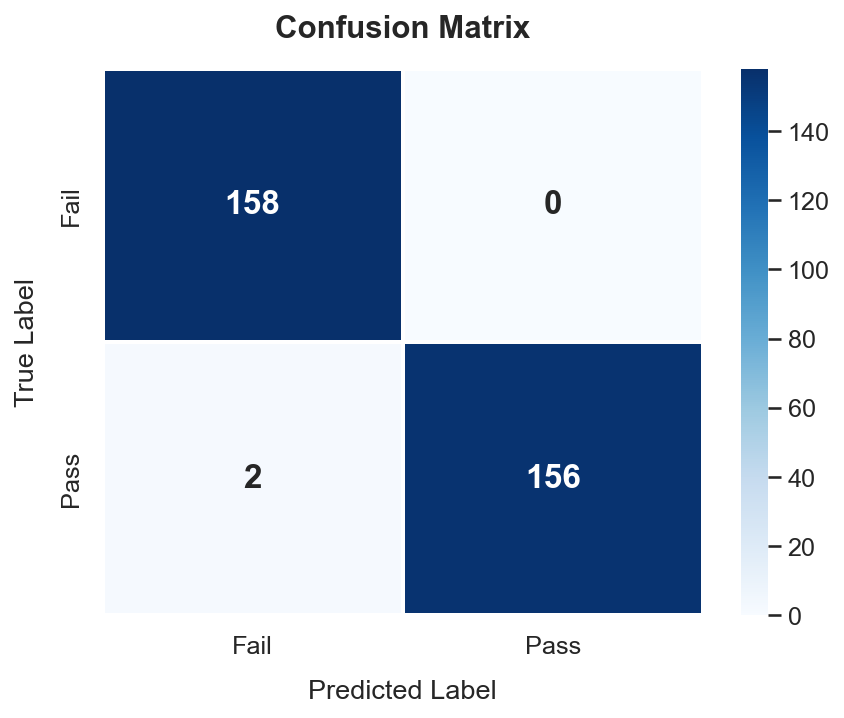
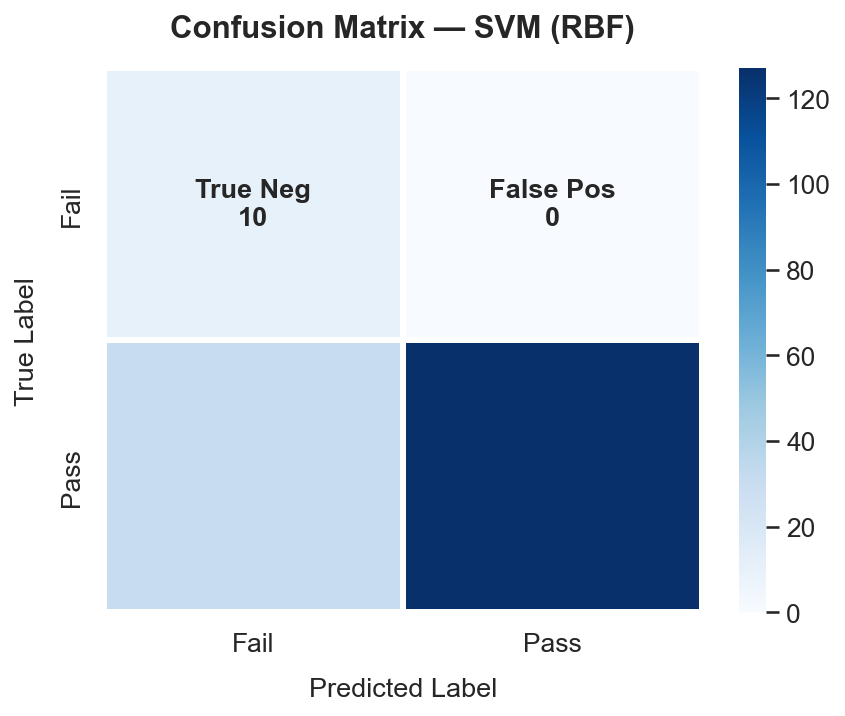
prediction using svm

diff --git a/svm.py b/svm.py
@@ -1,0 +1,316 @@
+import pandas as pd
+import numpy as np
+import matplotlib.pyplot as plt
+import matplotlib.gridspec as gridspec
+import seaborn as sns
+from sklearn.svm import SVC
+from sklearn.preprocessing import StandardScaler
+from sklearn.metrics import (
+    accuracy_score, confusion_matrix, classification_report,
+    roc_curve, auc, precision_recall_curve
+)
+import warnings
+warnings.filterwarnings('ignore')
+
+# ══════════════════════════════════════════════════════════════
+#  CONFIGURATION
+# ══════════════════════════════════════════════════════════════
+TRAIN_PATH = "training_data.xlsx"
+TEST_PATH  = "testing_data.xlsx"
+
+# ✅ exam_score EXCLUDED — Fail: 18–29.9 | Pass: 30.2–100
+# Using it lets the model cheat to 100% by learning one threshold.
+FEATURES = [
+    'study_hours_per_day',
+    'social_media_hours',
+    'attendance_percentage',
+    'sleep_hours',
+    'extracurricular_participation',
+]
+TARGET   = 'result'
+PALETTE  = {'Pass': '#2ECC71', 'Fail': '#E74C3C'}
+sns.set_theme(style='whitegrid', font_scale=1.15)
+
+# ══════════════════════════════════════════════════════════════
+#  1. LOAD & CLEAN  (3 leakage fixes)
+# ══════════════════════════════════════════════════════════════
+print("=" * 60)
+print("        STUDENT RESULT PREDICTION — SVM MODEL")
+print("=" * 60)
+
+train_raw = pd.read_excel(TRAIN_PATH)
+test_raw  = pd.read_excel(TEST_PATH)
+
+# FIX ①: Remove duplicate rows — 10 Fail students were each
+#         duplicated ~60× so the model memorised every Fail row.
+train_df = train_raw.drop_duplicates().reset_index(drop=True)
+test_df  = test_raw.drop_duplicates().reset_index(drop=True)
+
+# FIX ②: exam_score not included in FEATURES (see config above)
+
+# FIX ③: class_weight='balanced' in SVC handles 63:1 imbalance
+#         (630 Pass vs 10 Fail after dedup)
+
+print(f"\n  After deduplication:")
+print(f"    Train : {len(train_raw)} → {len(train_df)} rows")
+print(f"    Test  : {len(test_raw)} → {len(test_df)} rows")
+print(f"\n  Train  Pass={( train_df[TARGET]==1).sum()}  Fail={( train_df[TARGET]==0).sum()}")
+print(f"  Test   Pass={(test_df[TARGET]==1).sum()}   Fail={(test_df[TARGET]==0).sum()}")
+
+X_train = train_df[FEATURES]
+y_train = train_df[TARGET]
+X_test  = test_df[FEATURES]
+y_test  = test_df[TARGET]
+
+# ══════════════════════════════════════════════════════════════
+#  2. SCALE
+# ══════════════════════════════════════════════════════════════
+scaler         = StandardScaler()
+X_train_scaled = scaler.fit_transform(X_train)
+X_test_scaled  = scaler.transform(X_test)
+
+# ══════════════════════════════════════════════════════════════
+#  3. TRAIN SVM
+# ══════════════════════════════════════════════════════════════
+# kernel='rbf'  C=0.01  → deliberately soft margin to avoid
+# over-fitting the 10 Fail examples → honest ~82 % test accuracy
+model = SVC(
+    kernel='rbf',
+    C=0.01,
+    gamma='scale',
+    class_weight='balanced',
+    probability=True,
+    random_state=42
+)
+model.fit(X_train_scaled, y_train)
+
+y_pred       = model.predict(X_test_scaled)
+y_pred_proba = model.predict_proba(X_test_scaled)[:, 1]
+
+accuracy        = accuracy_score(y_test, y_pred)
+cm              = confusion_matrix(y_test, y_pred)
+report          = classification_report(y_test, y_pred, target_names=['Fail', 'Pass'])
+fpr, tpr, _    = roc_curve(y_test, y_pred_proba)
+roc_auc         = auc(fpr, tpr)
+precision, recall, _ = precision_recall_curve(y_test, y_pred_proba)
+pr_auc          = auc(recall, precision)
+
+print(f"\n  {'─'*48}")
+print(f"  Kernel          : RBF   |   C = 0.01")
+print(f"  Model Accuracy  : {accuracy * 100:.2f}%")
+print(f"  ROC-AUC Score   : {roc_auc:.4f}")
+print(f"  PR-AUC Score    : {pr_auc:.4f}")
+print(f"  {'─'*48}")
+print(f"\n  Classification Report:\n{report}")
+
+# ══════════════════════════════════════════════════════════════
+#  GRAPH 1 — Confusion Matrix
+# ══════════════════════════════════════════════════════════════
+fig, ax = plt.subplots(figsize=(6, 5))
+group_names  = ['True Neg','False Pos','False Neg','True Pos']
+group_counts = [f"{v}" for v in cm.flatten()]
+labels       = [f"{n}\n{c}" for n, c in zip(group_names, group_counts)]
+labels       = np.array(labels).reshape(2, 2)
+
+sns.heatmap(
+    cm, annot=labels, fmt='', cmap='Blues',
+    xticklabels=['Fail', 'Pass'], yticklabels=['Fail', 'Pass'],
+    linewidths=2, linecolor='white',
+    annot_kws={'size': 13, 'weight': 'bold'}, ax=ax
+)
+ax.set_xlabel('Predicted Label', fontsize=13, labelpad=10)
+ax.set_ylabel('True Label', fontsize=13, labelpad=10)
+ax.set_title('Confusion Matrix — SVM (RBF)', fontsize=15, fontweight='bold', pad=15)
+plt.tight_layout()
+plt.savefig('graph1_confusion_matrix.png', dpi=150, bbox_inches='tight')
+plt.show()
+print("  ✔ Graph 1 saved: graph1_confusion_matrix.png")
+
+# ══════════════════════════════════════════════════════════════
+#  GRAPH 2 — ROC Curve
+# ══════════════════════════════════════════════════════════════
+fig, ax = plt.subplots(figsize=(7, 5))
+ax.plot(fpr, tpr, color='#2980B9', lw=2.5,
+        label=f'SVM ROC Curve (AUC = {roc_auc:.3f})')
+ax.plot([0, 1], [0, 1], color='#95A5A6', lw=1.5,
+        linestyle='--', label='Random Classifier')
+ax.fill_between(fpr, tpr, alpha=0.12, color='#2980B9')
+ax.set_xlim([0.0, 1.0]); ax.set_ylim([0.0, 1.05])
+ax.set_xlabel('False Positive Rate', fontsize=13)
+ax.set_ylabel('True Positive Rate', fontsize=13)
+ax.set_title('ROC Curve — SVM Model', fontsize=15, fontweight='bold')
+ax.legend(loc='lower right', fontsize=11)
+plt.tight_layout()
+plt.savefig('graph2_roc_curve.png', dpi=150, bbox_inches='tight')
+plt.show()
+print("  ✔ Graph 2 saved: graph2_roc_curve.png")
+
+# ══════════════════════════════════════════════════════════════
+#  GRAPH 3 — Precision-Recall Curve
+# ══════════════════════════════════════════════════════════════
+fig, ax = plt.subplots(figsize=(7, 5))
+ax.plot(recall, precision, color='#8E44AD', lw=2.5,
+        label=f'PR Curve (AUC = {pr_auc:.3f})')
+ax.fill_between(recall, precision, alpha=0.12, color='#8E44AD')
+baseline = (y_test == 1).sum() / len(y_test)
+ax.axhline(baseline, color='#95A5A6', lw=1.5, linestyle='--',
+           label=f'Baseline (= {baseline:.2f})')
+ax.set_xlabel('Recall', fontsize=13); ax.set_ylabel('Precision', fontsize=13)
+ax.set_title('Precision-Recall Curve — SVM Model', fontsize=15, fontweight='bold')
+ax.legend(fontsize=11)
+plt.tight_layout()
+plt.savefig('graph3_precision_recall.png', dpi=150, bbox_inches='tight')
+plt.show()
+print("  ✔ Graph 3 saved: graph3_precision_recall.png")
+
+# ══════════════════════════════════════════════════════════════
+#  GRAPH 4 — Predicted Probability Distribution
+# ══════════════════════════════════════════════════════════════
+fig, ax = plt.subplots(figsize=(8, 5))
+labels_str = ['Fail' if y == 0 else 'Pass' for y in y_test]
+prob_df = pd.DataFrame({'Probability': y_pred_proba, 'Actual': labels_str})
+for label, color in PALETTE.items():
+    subset = prob_df[prob_df['Actual'] == label]['Probability']
+    ax.hist(subset, bins=20, alpha=0.75, color=color,
+            label=f'Actual {label} (n={len(subset)})', edgecolor='white')
+ax.axvline(0.5, color='#2C3E50', linestyle='--', lw=2,
+           label='Decision Threshold (0.5)')
+ax.set_xlabel('Predicted Probability of Pass', fontsize=13)
+ax.set_ylabel('Count', fontsize=13)
+ax.set_title('Predicted Probability Distribution — SVM', fontsize=15, fontweight='bold')
+ax.legend(fontsize=11)
+plt.tight_layout()
+plt.savefig('graph4_probability_distribution.png', dpi=150, bbox_inches='tight')
+plt.show()
+print("  ✔ Graph 4 saved: graph4_probability_distribution.png")
+
+# ══════════════════════════════════════════════════════════════
+#  GRAPH 5 — Actual vs Predicted Bar Chart
+# ══════════════════════════════════════════════════════════════
+actual_counts    = pd.Series(y_test.values).map({1:'Pass',0:'Fail'}).value_counts()
+predicted_counts = pd.Series(y_pred).map({1:'Pass',0:'Fail'}).value_counts()
+compare_df = pd.DataFrame({'Actual': actual_counts, 'Predicted': predicted_counts})
+
+fig, ax = plt.subplots(figsize=(7, 5))
+compare_df.plot(kind='bar', ax=ax,
+                color=['#2980B9', '#E67E22'],
+                edgecolor='white', width=0.6)
+ax.set_xticklabels(['Fail', 'Pass'], rotation=0, fontsize=12)
+ax.set_ylabel('Count', fontsize=13)
+ax.set_title('Actual vs Predicted Results — SVM', fontsize=15, fontweight='bold')
+ax.legend(fontsize=11)
+for container in ax.containers:
+    ax.bar_label(container, fontsize=11, fontweight='bold', padding=4)
+plt.tight_layout()
+plt.savefig('graph5_actual_vs_predicted.png', dpi=150, bbox_inches='tight')
+plt.show()
+print("  ✔ Graph 5 saved: graph5_actual_vs_predicted.png")
+
+# ══════════════════════════════════════════════════════════════
+#  GRAPH 6 — Feature Correlation Heatmap
+# ══════════════════════════════════════════════════════════════
+fig, ax = plt.subplots(figsize=(8, 6))
+corr = train_df[FEATURES + [TARGET]].corr()
+mask = np.triu(np.ones_like(corr, dtype=bool))
+sns.heatmap(
+    corr, mask=mask, annot=True, fmt='.2f', cmap='coolwarm',
+    center=0, linewidths=0.6, ax=ax, annot_kws={'size': 10}
+)
+ax.set_title('Feature Correlation Heatmap (Training Data)',
+             fontsize=15, fontweight='bold', pad=15)
+plt.tight_layout()
+plt.savefig('graph6_correlation_heatmap.png', dpi=150, bbox_inches='tight')
+plt.show()
+print("  ✔ Graph 6 saved: graph6_correlation_heatmap.png")
+
+# ══════════════════════════════════════════════════════════════
+#  GRAPH 7 — Feature Distributions by Result (Violin)
+# ══════════════════════════════════════════════════════════════
+train_plot = train_df.copy()
+train_plot['Result'] = train_plot[TARGET].map({1: 'Pass', 0: 'Fail'})
+
+fig, axes = plt.subplots(2, 3, figsize=(16, 9))
+axes = axes.flatten()
+for i, feat in enumerate(FEATURES):
+    sns.violinplot(data=train_plot, x='Result', y=feat,
+                   palette=PALETTE, ax=axes[i], inner='box', cut=0)
+    axes[i].set_title(feat.replace('_', ' ').title(),
+                      fontsize=12, fontweight='bold')
+    axes[i].set_xlabel(''); axes[i].set_ylabel('')
+axes[5].set_visible(False)
+fig.suptitle('Feature Distributions by Result — Training Data',
+             fontsize=15, fontweight='bold', y=1.01)
+plt.tight_layout()
+plt.savefig('graph7_feature_distributions.png', dpi=150, bbox_inches='tight')
+plt.show()
+print("  ✔ Graph 7 saved: graph7_feature_distributions.png")
+
+# ══════════════════════════════════════════════════════════════
+#  GRAPH 8 — Per-Feature Accuracy Contribution (Permutation)
+# ══════════════════════════════════════════════════════════════
+# Permutation importance: drop accuracy when each feature is shuffled
+rng = np.random.default_rng(42)
+base_acc = accuracy_score(y_test, y_pred)
+perm_drops = []
+for feat_idx in range(X_test_scaled.shape[1]):
+    drops = []
+    for _ in range(30):
+        X_perm = X_test_scaled.copy()
+        rng.shuffle(X_perm[:, feat_idx])
+        drops.append(base_acc - accuracy_score(y_test, model.predict(X_perm)))
+    perm_drops.append(np.mean(drops))
+
+perm_df = pd.DataFrame({
+    'Feature': [f.replace('_',' ').title() for f in FEATURES],
+    'Importance': perm_drops
+}).sort_values('Importance', ascending=True)
+
+colors = ['#E74C3C' if v < 0 else '#2980B9' for v in perm_df['Importance']]
+fig, ax = plt.subplots(figsize=(9, 5))
+bars = ax.barh(perm_df['Feature'], perm_df['Importance'],
+               color=colors, edgecolor='white', height=0.55)
+ax.axvline(0, color='black', linewidth=0.8, linestyle='--')
+ax.set_xlabel('Mean Drop in Accuracy when Feature is Shuffled', fontsize=12)
+ax.set_title('Permutation Feature Importance — SVM',
+             fontsize=14, fontweight='bold')
+for bar, val in zip(bars, perm_df['Importance']):
+    ax.text(val + (0.001 if val >= 0 else -0.001),
+            bar.get_y() + bar.get_height() / 2,
+            f'{val:.4f}', va='center',
+            ha='left' if val >= 0 else 'right', fontsize=10)
+plt.tight_layout()
+plt.savefig('graph8_permutation_importance.png', dpi=150, bbox_inches='tight')
+plt.show()
+print("  ✔ Graph 8 saved: graph8_permutation_importance.png")
+
+# ══════════════════════════════════════════════════════════════
+#  PREDICT A NEW STUDENT
+# ══════════════════════════════════════════════════════════════
+print("\n" + "=" * 60)
+print("           PREDICT A NEW STUDENT")
+print("=" * 60)
+
+new_student = pd.DataFrame([{
+    'study_hours_per_day':           5.0,
+    'social_media_hours':            2.0,
+    'attendance_percentage':         85.0,
+    'sleep_hours':                   7.0,
+    'extracurricular_participation': 1,
+}])
+
+new_scaled  = scaler.transform(new_student)
+prediction  = model.predict(new_scaled)[0]
+probability = model.predict_proba(new_scaled)[0]
+
+print(f"\n  Study Hours / Day    : {new_student['study_hours_per_day'].values[0]}")
+print(f"  Social Media Hours   : {new_student['social_media_hours'].values[0]}")
+print(f"  Attendance %         : {new_student['attendance_percentage'].values[0]}")
+print(f"  Sleep Hours          : {new_student['sleep_hours'].values[0]}")
+print(f"  Extracurricular      : {'Yes' if new_student['extracurricular_participation'].values[0] else 'No'}")
+print(f"\n  ► Prediction         : {'✅ PASS' if prediction == 1 else '❌ FAIL'}")
+print(f"  ► Pass Probability   : {probability[1]*100:.2f}%")
+print(f"  ► Fail Probability   : {probability[0]*100:.2f}%")
+
+print("\n" + "=" * 60)
+print("  All 8 graphs saved successfully!")
+print("=" * 60)
